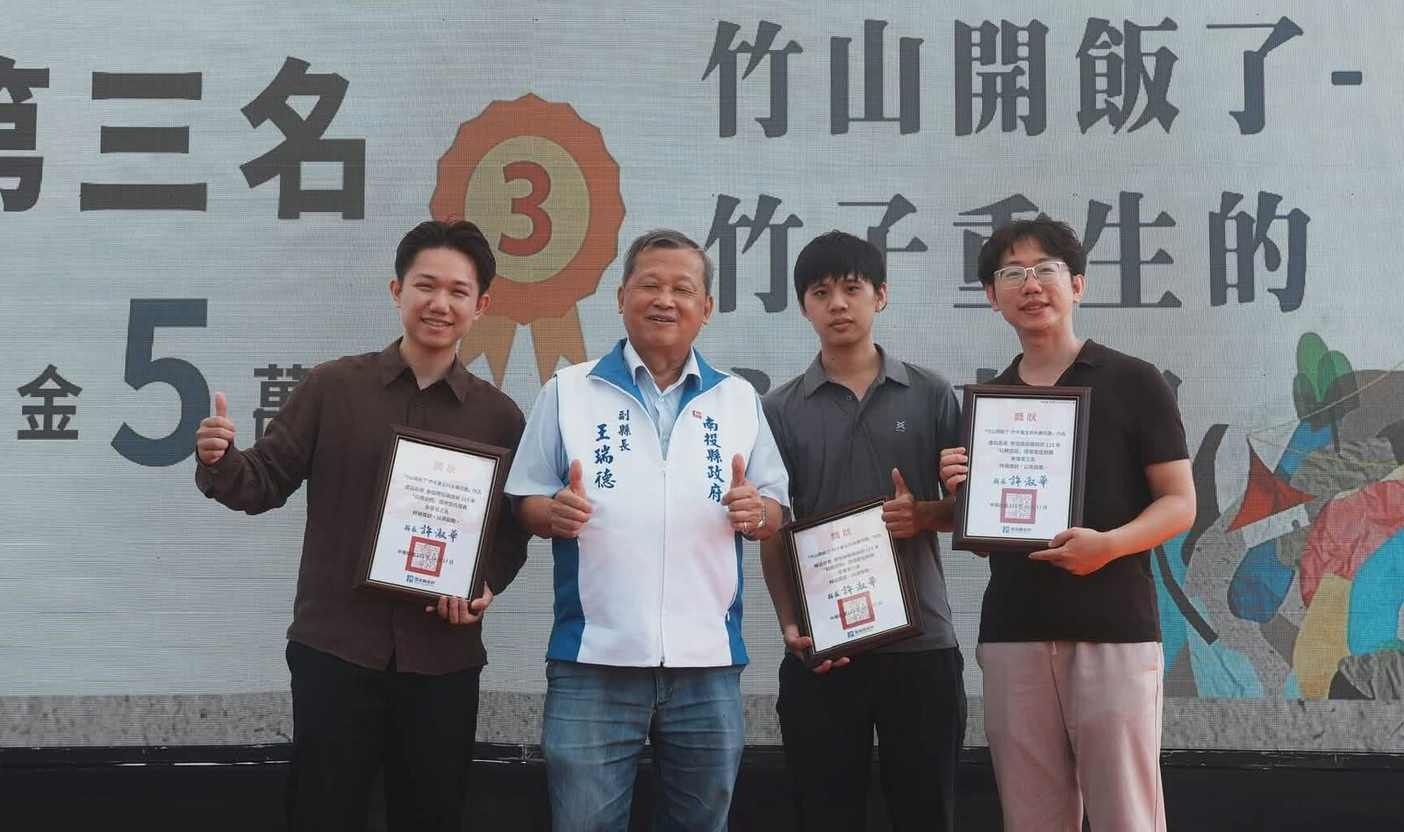
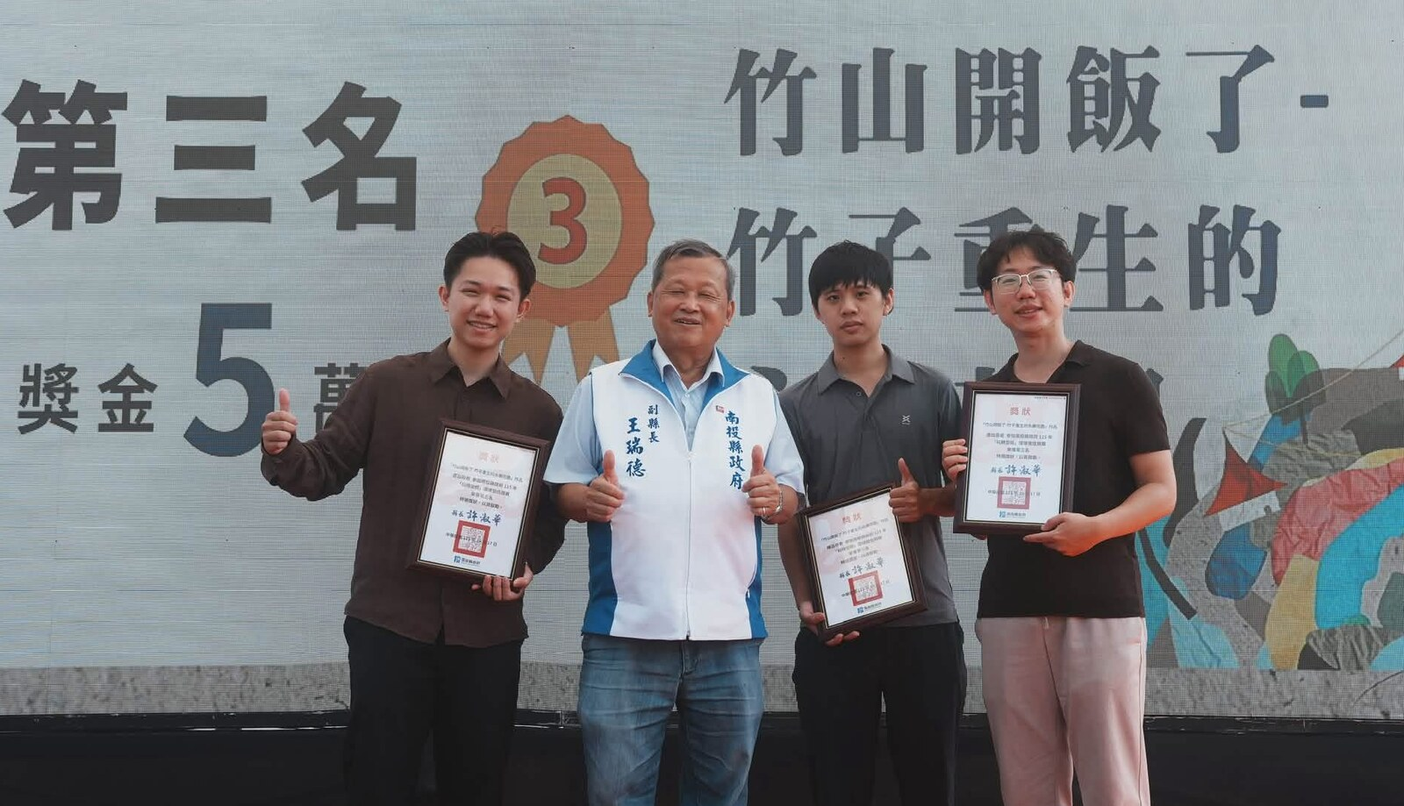
Refine award photo crop and ZH/EN competition copy
Keep 第三名 fully in hero, list, and OG crops; align history and news
wording; unify the English title; rename the official results link text.

diff --git a/en/updates/zhushan-playful-space-2026.html b/en/updates/zhushan-playful-space-2026.html
@@ -3,9 +3,9 @@
 <head>
 <meta charset="utf-8">
 <meta name="viewport" content="width=device-width,initial-scale=1">
-<title>Zhushan Kai Fan Le Wins Third Place in 2026 Playful Space Competition｜HOYAO</title>
-<meta name="description" content="Led by HOYAO’s founder Tang Chia-Ho with company members involved in execution and materials applications, Zhushan Kai Fan Le won third place in the Nantou County Youth Development Office’s 2026 Playful Space Environmental Design Competition.">
-<meta name="keywords" content="Zhushan Kai Fan Le,Tang Chia-Ho,Playful Space,Nantou,HOYAO,materials collaboration">
+<title>HOYAO Team Wins Third Place in Nantou County’s Environmental Design Competition｜HOYAO</title>
+<meta name="description" content="The HOYAO team won third place in Nantou County’s Environmental Design Competition with the bamboo installation Zhushan Kai Fan Le, with the award presented by the Nantou County Government.">
+<meta name="keywords" content="Zhushan Kai Fan Le,Tang Chia-Ho,Nantou,Environmental Design Competition,HOYAO,materials collaboration">
 <meta name="robots" content="index,follow">
 <link rel="canonical" href="https://hoyao.com/en/updates/zhushan-playful-space-2026.html">
 <link rel="alternate" hreflang="zh-Hant" href="https://hoyao.com/zh/updates/zhushan-playful-space-2026.html">
@@ -13,8 +13,8 @@
 <link rel="alternate" hreflang="x-default" href="https://hoyao.com/">
 <meta property="og:type" content="article">
 <meta property="og:site_name" content="和曜｜HOYAO APPLIED TECHNOLOGIES">
-<meta property="og:title" content="Zhushan Kai Fan Le Wins Third Place in 2026 Playful Space Competition｜HOYAO">
-<meta property="og:description" content="Led by HOYAO’s founder Tang Chia-Ho with company members involved in execution and materials applications, Zhushan Kai Fan Le won third place in the Nantou County Youth Development Office’s 2026 Playful Space Environmental Design Competition.">
+<meta property="og:title" content="HOYAO Team Wins Third Place in Nantou County’s Environmental Design Competition｜HOYAO">
+<meta property="og:description" content="The HOYAO team won third place in Nantou County’s Environmental Design Competition with the bamboo installation Zhushan Kai Fan Le, with the award presented by the Nantou County Government.">
 <meta property="og:url" content="https://hoyao.com/en/updates/zhushan-playful-space-2026.html">
 <meta property="og:image" content="https://hoyao.com/assets/images/updates/zhushan-playful-space-2026/zhushan-award-og.jpg">
 <meta property="og:image:secure_url" content="https://hoyao.com/assets/images/updates/zhushan-playful-space-2026/zhushan-award-og.jpg">
@@ -25,8 +25,8 @@
 <meta property="og:locale" content="en_US">
 <meta property="og:locale:alternate" content="zh_TW">
 <meta name="twitter:card" content="summary_large_image">
-<meta name="twitter:title" content="Zhushan Kai Fan Le Wins Third Place in 2026 Playful Space Competition｜HOYAO">
-<meta name="twitter:description" content="Led by HOYAO’s founder Tang Chia-Ho with company members involved in execution and materials applications, Zhushan Kai Fan Le won third place in the Nantou County Youth Development Office’s 2026 Playful Space Environmental Design Competition.">
+<meta name="twitter:title" content="HOYAO Team Wins Third Place in Nantou County’s Environmental Design Competition｜HOYAO">
+<meta name="twitter:description" content="The HOYAO team won third place in Nantou County’s Environmental Design Competition with the bamboo installation Zhushan Kai Fan Le, with the award presented by the Nantou County Government.">
 <meta name="twitter:image" content="https://hoyao.com/assets/images/updates/zhushan-playful-space-2026/zhushan-award-og.jpg">
 <meta property="article:published_time" content="2026-10-13">
 <meta property="article:modified_time" content="2026-11-23">
@@ -35,7 +35,7 @@
 <link rel="icon" href="/assets/logo/favicon-32x32-v2.png" sizes="32x32" type="image/png">
 <link rel="icon" href="/assets/logo/favicon-16x16-v2.png" sizes="16x16" type="image/png">
 <link rel="apple-touch-icon" href="/assets/logo/apple-touch-icon-v2.png" sizes="180x180">
-<link rel="stylesheet" href="/style.css?v=20261013-2">
+<link rel="stylesheet" href="/style.css?v=20261123-1">
 <script type="application/ld+json">
 {
   "@context": "https://schema.org",
@@ -58,15 +58,15 @@
         {
           "@type": "ListItem",
           "position": 3,
-          "name": "Zhushan Kai Fan Le Wins Third Place in Nantou’s 2026 Playful Space Competition｜HOYAO Team Project",
+          "name": "HOYAO Team Wins Third Place in Nantou County’s Environmental Design Competition",
           "item": "https://hoyao.com/en/updates/zhushan-playful-space-2026.html"
         }
       ]
     },
     {
       "@type": "NewsArticle",
-      "headline": "Zhushan Kai Fan Le Wins Third Place in Nantou’s 2026 Playful Space Competition｜HOYAO Team Project",
-      "description": "Led by HOYAO’s founder Tang Chia-Ho with company members involved in execution and materials applications, Zhushan Kai Fan Le won third place in the Nantou County Youth Development Office’s 2026 Playful Space Environmental Design Competition.",
+      "headline": "HOYAO Team Wins Third Place in Nantou County’s Environmental Design Competition",
+      "description": "The HOYAO team won third place in Nantou County’s Environmental Design Competition with the bamboo installation Zhushan Kai Fan Le, with the award presented by the Nantou County Government.",
       "datePublished": "2026-10-13",
       "dateModified": "2026-11-23",
       "inLanguage": "en",
@@ -97,7 +97,7 @@
       "about": [
         {
           "@type": "Event",
-          "name": "Playful Space competition final results",
+          "name": "Nantou County Environmental Design Competition",
           "startDate": "2026-10-02",
           "organizer": {
             "@type": "Organization",
@@ -121,20 +121,20 @@
 <nav class="breadcrumb" aria-label="Breadcrumb"><a href="../index.html">Home</a><span class="breadcrumb-sep" aria-hidden="true"> / </span><a href="../updates.html">Updates</a><span class="breadcrumb-sep" aria-hidden="true"> / </span><span aria-current="page">Zhushan third place</span></nav>
 <section class="page-hero">
 <p class="eyebrow">Update · Zhushan · <time datetime="2026-10-02">2026.10.02</time></p>
-<h1>Zhushan Kai Fan Le Wins Third Place in Nantou’s 2026 Playful Space Competition｜HOYAO Team Project</h1>
-<p class="lead">On 2 October 2026, the Nantou County Youth Development Office announced the third-place result for Zhushan Kai Fan Le, proposed and led by HOYAO’s founder Tang Chia-Ho with company team members participating in production.</p>
+<h1>HOYAO Team Wins Third Place in Nantou County’s Environmental Design Competition</h1>
+<p class="lead">The HOYAO team won third place in Nantou County’s Environmental Design Competition with the bamboo installation <em>Zhushan Kai Fan Le</em>, with the award presented by the Nantou County Government.</p>
 <div class="update-tags" aria-label="Categories">
 <span>Updates</span><span>Zhushan</span><span>Team achievement</span>
 </div>
 </section>
 
 <figure class="update-figure update-figure--hero">
-<img src="/assets/images/updates/zhushan-playful-space-2026/zhushan-award-ceremony.webp" width="1600" height="949" alt="HOYAO team at the Nantou environmental design competition award ceremony" fetchpriority="high" decoding="async">
+<img src="/assets/images/updates/zhushan-playful-space-2026/zhushan-award-ceremony.webp" width="1600" height="919" alt="HOYAO team at the Nantou environmental design competition award ceremony" fetchpriority="high" decoding="async">
 <figcaption>HOYAO team at the Nantou environmental design competition award ceremony.</figcaption>
 </figure>
 
 <section class="prose">
-<p>The HOYAO team entered the bamboo installation <em>Zhushan Kai Fan Le</em> and received third place in Nantou’s environmental design competition, with the award presented by the Nantou County Government. Final results were announced by the Nantou County Youth Development Office on <time datetime="2026-10-02">2 October 2026</time>.</p>
+<p>The Nantou County Youth Development Office announced the final results on <time datetime="2026-10-02">2 October 2026</time>.</p>
 <p><a href="/zhushan/en/">View Zhushan Kai Fan Le — project page and video</a></p>
 </section>
 

diff --git a/zh/updates/zhushan-playful-space-2026.html b/zh/updates/zhushan-playful-space-2026.html
@@ -4,7 +4,7 @@
 <meta charset="utf-8">
 <meta name="viewport" content="width=device-width,initial-scale=1">
 <title>和曜團隊獲南投縣環境營造競賽第三名｜HOYAO</title>
-<meta name="description" content="和曜團隊以竹材裝置《竹山開飯了》參賽，獲南投縣環境營造競賽第三名，由南投縣政府頒獎。">
+<meta name="description" content="和曜團隊以竹材裝置《竹山開飯了》獲南投縣環境營造競賽第三名，由南投縣政府頒獎。">
 <meta name="keywords" content="竹山開飯了,南投縣環境營造競賽,南投縣青年發展所,和曜,HOYAO,唐加和">
 <meta name="robots" content="index,follow">
 <link rel="canonical" href="https://hoyao.com/zh/updates/zhushan-playful-space-2026.html">
@@ -14,7 +14,7 @@
 <meta property="og:type" content="article">
 <meta property="og:site_name" content="和曜｜HOYAO Applied Technologies">
 <meta property="og:title" content="和曜團隊獲南投縣環境營造競賽第三名｜HOYAO">
-<meta property="og:description" content="和曜團隊以竹材裝置《竹山開飯了》參賽，獲第三名，由南投縣政府頒獎。">
+<meta property="og:description" content="和曜團隊以竹材裝置《竹山開飯了》獲南投縣環境營造競賽第三名，由南投縣政府頒獎。">
 <meta property="og:url" content="https://hoyao.com/zh/updates/zhushan-playful-space-2026.html">
 <meta property="og:image" content="https://hoyao.com/assets/images/updates/zhushan-playful-space-2026/zhushan-award-og.jpg">
 <meta property="og:image:secure_url" content="https://hoyao.com/assets/images/updates/zhushan-playful-space-2026/zhushan-award-og.jpg">
@@ -26,7 +26,7 @@
 <meta property="og:locale:alternate" content="en_US">
 <meta name="twitter:card" content="summary_large_image">
 <meta name="twitter:title" content="和曜團隊獲南投縣環境營造競賽第三名｜HOYAO">
-<meta name="twitter:description" content="和曜團隊以竹材裝置《竹山開飯了》參賽，獲第三名，由南投縣政府頒獎。">
+<meta name="twitter:description" content="和曜團隊以竹材裝置《竹山開飯了》獲南投縣環境營造競賽第三名，由南投縣政府頒獎。">
 <meta name="twitter:image" content="https://hoyao.com/assets/images/updates/zhushan-playful-space-2026/zhushan-award-og.jpg">
 <meta property="article:published_time" content="2026-10-13">
 <meta property="article:modified_time" content="2026-11-23">
@@ -35,7 +35,7 @@
 <link rel="icon" href="/assets/logo/favicon-32x32-v2.png" sizes="32x32" type="image/png">
 <link rel="icon" href="/assets/logo/favicon-16x16-v2.png" sizes="16x16" type="image/png">
 <link rel="apple-touch-icon" href="/assets/logo/apple-touch-icon-v2.png" sizes="180x180">
-<link rel="stylesheet" href="/style.css?v=20261013-2">
+<link rel="stylesheet" href="/style.css?v=20261123-1">
 <script type="application/ld+json">
 {
   "@context": "https://schema.org",
@@ -66,7 +66,7 @@
     {
       "@type": "NewsArticle",
       "headline": "和曜團隊獲南投縣環境營造競賽第三名",
-      "description": "和曜團隊以竹材裝置《竹山開飯了》參賽，獲第三名，由南投縣政府頒獎。",
+      "description": "和曜團隊以竹材裝置《竹山開飯了》獲南投縣環境營造競賽第三名，由南投縣政府頒獎。",
       "datePublished": "2026-10-13",
       "dateModified": "2026-11-23",
       "inLanguage": "zh-Hant",
@@ -122,25 +122,25 @@
 <section class="page-hero">
 <p class="eyebrow">Update · Zhushan · <time datetime="2026-10-02">2026.10.02</time></p>
 <h1>和曜團隊獲南投縣環境營造競賽第三名</h1>
-<p class="lead">和曜團隊以竹材裝置《竹山開飯了》參賽，獲第三名，由南投縣政府頒獎。</p>
+<p class="lead">和曜團隊以竹材裝置《竹山開飯了》獲南投縣環境營造競賽第三名，由南投縣政府頒獎。</p>
 <div class="update-tags" aria-label="分類">
 <span>最新動態</span><span>竹山</span><span>團隊成果</span>
 </div>
 </section>
 
 <figure class="update-figure update-figure--hero">
-<img src="/assets/images/updates/zhushan-playful-space-2026/zhushan-award-ceremony.webp" width="1600" height="949" alt="和曜團隊於南投縣環境營造競賽頒獎典禮合影" fetchpriority="high" decoding="async">
+<img src="/assets/images/updates/zhushan-playful-space-2026/zhushan-award-ceremony.webp" width="1600" height="919" alt="和曜團隊於南投縣環境營造競賽頒獎典禮合影" fetchpriority="high" decoding="async">
 <figcaption>和曜團隊於南投縣環境營造競賽頒獎典禮合影。</figcaption>
 </figure>
 
 <section class="prose">
-<p>和曜團隊以竹材裝置《竹山開飯了》參賽，獲第三名，由南投縣政府頒獎。南投縣青年發展所於 <time datetime="2026-10-02">2026 年 10 月 2 日</time>公布決賽結果。</p>
+<p>南投縣青年發展所於 <time datetime="2026-10-02">2026 年 10 月 2 日</time>公布決賽結果。</p>
 <p><a href="/zhushan/">觀看《竹山開飯了》作品與影片</a></p>
 </section>
 
 <aside class="update-context">
 <h3>官方消息來源</h3>
-<p><a href="https://youth.nantou.gov.tw/zh-TW/volunteer/c18b830a-5a3f-42fe-9cc2-f0ae41b16506/abd56e16-9152-4ec5-8716-603672f64159" target="_blank" rel="noopener noreferrer">南投縣青年發展所｜玩轉空間環境營造競賽決賽結果</a>（2026/10/02）</p>
+<p><a href="https://youth.nantou.gov.tw/zh-TW/volunteer/c18b830a-5a3f-42fe-9cc2-f0ae41b16506/abd56e16-9152-4ec5-8716-603672f64159" target="_blank" rel="noopener noreferrer">南投縣青年發展所｜競賽結果公告</a>（2026/10/02）</p>
 <p><a href="https://youth.nantou.gov.tw/zh-TW/volunteer/75295b65-76ee-4214-9d0b-e906922c6019/8c3bf6bd-2993-4d03-8507-5dcc8d2f980f" target="_blank" rel="noopener noreferrer">南投縣青年發展所｜入圍作品名單</a>（2026/07/22）</p>
 <p><a href="/zhushan/">《竹山開飯了》獨立作品專頁</a></p>
 </aside>

diff --git a/en/updates.html b/en/updates.html
@@ -28,7 +28,7 @@
 <link rel="icon" href="/assets/logo/favicon-32x32-v2.png" sizes="32x32" type="image/png">
 <link rel="icon" href="/assets/logo/favicon-16x16-v2.png" sizes="16x16" type="image/png">
 <link rel="apple-touch-icon" href="/assets/logo/apple-touch-icon-v2.png" sizes="180x180">
-<link rel="stylesheet" href="/style.css?v=20261113-2">
+<link rel="stylesheet" href="/style.css?v=20261123-1">
 </head>
 <body>
 <div class="site"><header class="header"><a class="brand" href="/en/"><img class="brand-wordmark" src="../assets/logo/hoyao-wordmark.svg" width="132" height="53" alt="和曜｜HOYAO Applied Technologies"><span class="brand-legal">Applied Technologies Co., Ltd.</span></a><nav class="nav-desktop" aria-label="Primary"><a href="index.html">Home</a><a href="about.html">About</a><a href="work.html">What We Do</a><a href="services.html">Products &amp; Services</a><a href="projects.html">Projects &amp; Applications</a><a href="history.html">Company History</a><a href="updates.html" class="is-active" aria-current="page">Updates</a><a href="contact.html">Contact</a><a class="lang" href="/zh/updates.html">中文</a></nav><button class="menu-toggle" type="button" aria-controls="mobile-nav" aria-expanded="false">Menu</button></header><nav class="nav-mobile" id="mobile-nav" hidden><a href="index.html">Home</a><a href="about.html">About</a><a href="work.html">What We Do</a><a href="services.html">Products &amp; Services</a><a href="projects.html">Projects &amp; Applications</a><a href="history.html">Company History</a><a href="updates.html" class="is-active" aria-current="page">Updates</a><a href="contact.html">Contact</a><a class="lang" href="/zh/updates.html">中文</a></nav>
@@ -41,7 +41,7 @@
 <a class="update-row" href="updates/guiguli-preliminary-2026.html"><span class="date"><time datetime="2026-11-11">2026.11.11</time></span><span><h3>HOYAO Advances to National Top 40 in Taiwan’s 2026 Return-to-Hometown Competition</h3><p>Participated in the Year 115 (2026) competition organized by the Administration for Digital Industries, Ministry of Digital Affairs; passed preliminary review among 232 nationwide entrants and advanced to 40 teams.</p></span></a>
 <a class="update-row" href="updates/fire-materials-ndc-subsidy-2026.html"><span class="date"><time datetime="2026-11-10">2026.11.10</time></span><span><h3>HOYAO Fire-Safety Materials Application Project Receives NDC Subsidy Approval</h3><p>NDC published the 2026 incubator resident-team subsidy list; HOYAO received approved subsidy for fire-safety materials application development, with this stage of material prototyping and preliminary testing completed.</p></span></a>
 <a class="update-row" href="updates/guiguli-written-review-2026.html"><span class="date"><time datetime="2026-10-28">2026.10.28</time></span><span><h3>HOYAO Passes Written Review for the 2026 Return-to-Hometown Innovation &amp; Entrepreneurship Competition</h3><p>Nantou County venue; listed among 60 nationwide teams that passed written review.</p></span></a>
-<a class="update-row update-row--media" href="updates/zhushan-playful-space-2026.html"><span class="date"><time datetime="2026-10-02">2026.10.02</time></span><figure class="update-thumb"><img src="/assets/images/updates/zhushan-playful-space-2026/zhushan-award-card.webp" width="1200" height="800" alt="HOYAO team at the Nantou environmental design competition award ceremony" loading="lazy" decoding="async"></figure><span><h3>Zhushan Kai Fan Le Wins Third Place in Nantou’s 2026 Playful Space Competition</h3><p>Led by HOYAO’s founder and involving company team members, the winning installation received third place.</p></span></a>
+<a class="update-row update-row--media" href="updates/zhushan-playful-space-2026.html"><span class="date"><time datetime="2026-10-02">2026.10.02</time></span><figure class="update-thumb"><img src="/assets/images/updates/zhushan-playful-space-2026/zhushan-award-card.webp" width="1200" height="800" alt="HOYAO team at the Nantou environmental design competition award ceremony" loading="lazy" decoding="async"></figure><span><h3>HOYAO Team Wins Third Place in Nantou County’s Environmental Design Competition</h3><p>Led by HOYAO’s founder and involving company team members, the winning installation received third place.</p></span></a>
 <a class="update-row" href="updates/nantou-sbir-2026.html"><span class="date"><time datetime="2026-09-03">2026.09.03</time></span><span><h3>HOYAO Receives Nantou County Year 115 (2026) Local SBIR Approval</h3><p>Notice 2026/09/03; 26 applications, 16 firms approved.</p></span></a>
 <a class="update-row" href="updates/company-name-change.html"><span class="date"><time datetime="2026-08-12">2026.08.12</time></span><span><h3>HOYAO Completes Company Name Change</h3><p>From 和曜建材科技股份有限公司 to 和曜應用科技股份有限公司.</p></span></a>
 <a class="update-row update-row--media" href="updates/ntu-wood-utilization.html"><span class="date"><time datetime="2026-07-29">2026.07.29</time></span><figure class="update-thumb"><img src="/assets/images/updates/ntu-wood-utilization/ntu-wood-utilization-facility.jpg" width="1400" height="1050" alt="NTU Experimental Forest Wood Utilization Center exterior" loading="lazy" decoding="async"></figure><span><h3>HOYAO Visits NTU Experimental Forest Wood Utilization Factory</h3><p>On-site exchange on wood and bamboo material applications.</p></span></a>

diff --git a/zh/updates.html b/zh/updates.html
@@ -28,7 +28,7 @@
 <link rel="icon" href="/assets/logo/favicon-32x32-v2.png" sizes="32x32" type="image/png">
 <link rel="icon" href="/assets/logo/favicon-16x16-v2.png" sizes="16x16" type="image/png">
 <link rel="apple-touch-icon" href="/assets/logo/apple-touch-icon-v2.png" sizes="180x180">
-<link rel="stylesheet" href="/style.css?v=20261113-2">
+<link rel="stylesheet" href="/style.css?v=20261123-1">
 </head>
 <body>
 <div class="site"><header class="header"><a class="brand" href="/"><img class="brand-wordmark" src="../assets/logo/hoyao-wordmark.svg" width="132" height="53" alt="和曜｜HOYAO Applied Technologies"><span class="brand-legal">和曜應用科技股份有限公司</span></a><nav class="nav-desktop" aria-label="Primary"><a href="/">首頁</a><a href="about.html">關於和曜</a><a href="work.html">我們的工作</a><a href="services.html">產品與服務</a><a href="projects.html">專案與案例</a><a href="history.html">發展歷程</a><a href="updates.html" class="is-active" aria-current="page">最新動態</a><a href="contact.html">聯絡</a><a class="lang" href="/en/updates.html">EN</a></nav><button class="menu-toggle" type="button" aria-controls="mobile-nav" aria-expanded="false">Menu</button></header><nav class="nav-mobile" id="mobile-nav" hidden><a href="/">首頁</a><a href="about.html">關於和曜</a><a href="work.html">我們的工作</a><a href="services.html">產品與服務</a><a href="projects.html">專案與案例</a><a href="history.html">發展歷程</a><a href="updates.html" class="is-active" aria-current="page">最新動態</a><a href="contact.html">聯絡</a><a class="lang" href="/en/updates.html">English</a></nav>
@@ -41,7 +41,7 @@
 <a class="update-row" href="updates/guiguli-preliminary-2026.html"><span class="date"><time datetime="2026-11-11">2026.11.11</time></span><span><h3>和曜晉級數發部「創業歸故里」競賽全國 40 組</h3><p>數位發展部數位產業署公布初賽結果，和曜為全國 232 組報名團隊中通過初賽的 40 組之一。</p></span></a>
 <a class="update-row" href="updates/fire-materials-ndc-subsidy-2026.html"><span class="date"><time datetime="2026-11-10">2026.11.10</time></span><span><h3>和曜防火材料應用計畫獲國發會核定補助</h3><p>國發會公布 115 年度育成村進駐團隊補助清單；和曜以防火材料應用開發獲核定補助。</p></span></a>
 <a class="update-row" href="updates/guiguli-written-review-2026.html"><span class="date"><time datetime="2026-10-28">2026.10.28</time></span><span><h3>和曜通過數發部「創業歸故里」競賽書面審查</h3><p>數位發展部數位產業署公布書面審查結果，和曜入選全國 60 組通過書面審查的團隊。</p></span></a>
-<a class="update-row update-row--media" href="updates/zhushan-playful-space-2026.html"><span class="date"><time datetime="2026-10-02">2026.10.02</time></span><figure class="update-thumb"><img src="/assets/images/updates/zhushan-playful-space-2026/zhushan-award-card.webp" width="1200" height="800" alt="和曜團隊於南投縣環境營造競賽頒獎典禮合影" loading="lazy" decoding="async"></figure><span><h3>和曜團隊獲南投縣環境營造競賽第三名</h3><p>和曜團隊以竹材裝置《竹山開飯了》參賽，獲第三名，由南投縣政府頒獎。</p></span></a>
+<a class="update-row update-row--media" href="updates/zhushan-playful-space-2026.html"><span class="date"><time datetime="2026-10-02">2026.10.02</time></span><figure class="update-thumb"><img src="/assets/images/updates/zhushan-playful-space-2026/zhushan-award-card.webp" width="1200" height="800" alt="和曜團隊於南投縣環境營造競賽頒獎典禮合影" loading="lazy" decoding="async"></figure><span><h3>和曜團隊獲南投縣環境營造競賽第三名</h3><p>和曜團隊以竹材裝置《竹山開飯了》獲南投縣環境營造競賽第三名，由南投縣政府頒獎。</p></span></a>
 <a class="update-row" href="updates/nantou-sbir-2026.html"><span class="date"><time datetime="2026-09-03">2026.09.03</time></span><span><h3>和曜獲南投縣政府地方型 SBIR 計畫核定</h3><p>南投縣政府公布 115 年度「地方產業創新研發推動計畫」核定名單，共有 26 件申請，和曜為獲核定的 16 家廠商之一。</p></span></a>
 <a class="update-row" href="updates/company-name-change.html"><span class="date"><time datetime="2026-08-12">2026.08.12</time></span><span><h3>和曜建材科技股份有限公司更名為和曜應用科技股份有限公司</h3><p>公司完成名稱變更，業務定位從建材延伸至材料開發與產品應用。</p></span></a>
 <a class="update-row update-row--media" href="updates/ntu-wood-utilization.html"><span class="date"><time datetime="2026-07-29">2026.07.29</time></span><figure class="update-thumb"><img src="/assets/images/updates/ntu-wood-utilization/ntu-wood-utilization-facility.jpg" width="1400" height="1050" alt="臺大實驗林木材利用實習工廠外觀" loading="lazy" decoding="async"></figure><span><h3>和曜參訪臺大實驗林木材利用實習工廠</h3><p>雙方交流木竹材料的利用方式與森林資源的應用。</p></span></a>

diff --git a/en/projects.html b/en/projects.html
@@ -34,7 +34,7 @@
 <div class="site"><header class="header"><a class="brand" href="/en/"><img class="brand-wordmark" src="../assets/logo/hoyao-wordmark.svg" width="132" height="53" alt="和曜｜HOYAO Applied Technologies"><span class="brand-legal">HOYAO APPLIED TECHNOLOGIES</span></a><nav class="nav-desktop" aria-label="Primary"><a href="index.html">Home</a><a href="about.html">About</a><a href="work.html">What We Do</a><a href="services.html">Products &amp; Services</a><a href="projects.html" class="is-active" aria-current="page">Projects &amp; Applications</a><a href="history.html">Company History</a><a href="updates.html">Updates</a><a href="contact.html">Contact</a><a class="lang" href="/zh/projects.html">中文</a></nav><button class="menu-toggle" type="button" aria-controls="mobile-nav" aria-expanded="false">Menu</button></header><nav class="nav-mobile" id="mobile-nav" hidden><a href="index.html">Home</a><a href="about.html">About</a><a href="work.html">What We Do</a><a href="services.html">Products &amp; Services</a><a href="projects.html" class="is-active" aria-current="page">Projects &amp; Applications</a><a href="history.html">Company History</a><a href="updates.html">Updates</a><a href="contact.html">Contact</a><a class="lang" href="/zh/projects.html">中文</a></nav>
 <main>
 <section class="page-hero"><p class="eyebrow">Projects &amp; Applications</p><h1>Projects &amp; Applications</h1><p class="lead">Material R&amp;D initiatives and applied collaboration. For the company’s chronology, visit <a href="history.html"><u>Company History</u></a>.</p></section>
-<a class="progress-item progress-item--media" href="/zhushan/en/"><figure class="progress-thumb"><img src="/assets/images/projects/zhushan/hero-installation.webp" width="1800" height="1200" alt="Zhushan bamboo installation" loading="lazy" decoding="async"></figure><div class="progress-body"><div class="progress-meta">Award-winning Application · 2026</div><h3>Zhushan Kai Fan Le — Third Place in Nantou’s 2026 Playful Space Competition</h3><p>The project was proposed and led by HOYAO’s founder Tang Chia-Ho, with company members contributing to the bamboo installation and materials application. The work received third place in the Nantou County Youth Development Office’s 2026 environmental design competition.</p></div></a>
+<a class="progress-item progress-item--media" href="/zhushan/en/"><figure class="progress-thumb"><img src="/assets/images/projects/zhushan/hero-installation.webp" width="1800" height="1200" alt="Zhushan bamboo installation" loading="lazy" decoding="async"></figure><div class="progress-body"><div class="progress-meta">Award-winning Application · 2026</div><h3>Zhushan Kai Fan Le — Third Place in Nantou County’s 2026 Environmental Design Competition</h3><p>The project was proposed and led by HOYAO’s founder Tang Chia-Ho, with company members contributing to the bamboo installation and materials application. The work received third place in the Nantou County Youth Development Office’s 2026 environmental design competition.</p></div></a>
 <a class="progress-item" href="projects/nantou-sbir-2026.html"><div class="progress-meta">R&amp;D Project · 2026</div><h3>Nantou County Local SBIR — Materials R&amp;D</h3><p>HOYAO’s Year 115 (2026) Local Industry Innovation R&amp;D Promotion Program proposal was approved by Nantou County Government, supporting materials application and validation.</p></a>
 </main>
 <footer class="footer"><div class="footer-grid"><div><div class="name"><img class="footer-wordmark" src="../assets/logo/hoyao-wordmark.svg" width="120" height="48" alt="和曜｜HOYAO Applied Technologies"></div><p>HOYAO Applied Technologies Co., Ltd.<br>和曜應用科技股份有限公司<br>hoyao.com</p></div><div><h4>Explore</h4><a href="index.html">Home</a><a href="about.html">About</a><a href="work.html">What We Do</a><a href="services.html">Products &amp; Services</a><a href="projects.html">Projects &amp; Applications</a><a href="history.html">Company History</a><a href="updates.html">Updates</a><a href="contact.html">Contact</a></div><div><h4>Connect</h4><a href="https://linkedin.com/company/hoyao/" rel="noopener">LinkedIn</a><a href="https://www.facebook.com/hoyaotech/" rel="noopener">Facebook</a><a href="mailto:contact@hoyao.com">contact@hoyao.com</a><a href="/">中文</a></div></div><div class="footer-bottom"><div>© 2026 HOYAO Applied Technologies Co., Ltd.</div></div></footer></div>

diff --git a/en/index.html b/en/index.html
@@ -32,7 +32,7 @@
 <link rel="icon" href="/assets/logo/favicon-32x32-v2.png" sizes="32x32" type="image/png">
 <link rel="icon" href="/assets/logo/favicon-16x16-v2.png" sizes="16x16" type="image/png">
 <link rel="apple-touch-icon" href="/assets/logo/apple-touch-icon-v2.png" sizes="180x180">
-<link rel="stylesheet" href="/style.css?v=20261113-2">
+<link rel="stylesheet" href="/style.css?v=20261123-1">
 <script type="application/ld+json">
 {
   "@context": "https://schema.org",
@@ -217,7 +217,7 @@
 <div class="history-preview">
 <a class="history-preview-item" href="updates/company-founded-2026.html"><time datetime="2026-04-29">2026.04</time><h3>HOYAO Building Materials Technologies Incorporated</h3><p>Originally established under the name 和曜建材科技股份有限公司.</p></a>
 <a class="history-preview-item" href="projects/nantou-sbir-2026.html"><time datetime="2026-09-03">2026.09</time><h3>HOYAO Receives Nantou County Year 115 (2026) Local SBIR Approval</h3><p>Approved under the 2026 Local Industry Innovation R&amp;D Promotion Program.</p></a>
-<a class="history-preview-item" href="updates/zhushan-playful-space-2026.html"><time datetime="2026-10-02">2026.10</time><h3>Zhushan Kai Fan Le Wins Third Place in Nantou’s 2026 Playful Space Competition</h3><p>A HOYAO team project recognized in Nantou’s 2026 Playful Space Competition.</p></a>
+<a class="history-preview-item" href="updates/zhushan-playful-space-2026.html"><time datetime="2026-10-02">2026.10</time><h3>HOYAO Team Wins Third Place in Nantou County’s Environmental Design Competition</h3><p>Awarded for the bamboo installation Zhushan Kai Fan Le; presented by the Nantou County Government.</p></a>
 </div>
 <p class="section-more"><a href="history.html">View full company history →</a></p>
 </section>
@@ -230,7 +230,7 @@
 <div class="update-list">
 <a class="update-row" href="updates/guiguli-preliminary-2026.html"><span class="date"><time datetime="2026-11-11">2026.11.11</time></span><span><h3>HOYAO Advances to National Top 40 in Taiwan’s 2026 Return-to-Hometown Competition</h3><p>Passed preliminary review among 232 nationwide entrants; advanced to 40 teams.</p></span></a>
 <a class="update-row" href="updates/guiguli-written-review-2026.html"><span class="date"><time datetime="2026-10-28">2026.10.28</time></span><span><h3>HOYAO Passes Written Review for the 2026 Return-to-Hometown Innovation &amp; Entrepreneurship Competition</h3><p>Selected among 60 teams nationwide in the Year 115 written review stage.</p></span></a>
-<a class="update-row update-row--media" href="updates/zhushan-playful-space-2026.html"><span class="date"><time datetime="2026-10-02">2026.10.02</time></span><figure class="update-thumb"><img src="/assets/images/updates/zhushan-playful-space-2026/zhushan-award-card.webp" width="1200" height="800" alt="HOYAO team at the Nantou environmental design competition award ceremony" loading="lazy" decoding="async"></figure><span><h3>Zhushan Kai Fan Le Wins Third Place in Nantou’s 2026 Playful Space Competition</h3><p>Led by HOYAO’s founder and produced with company team members, the work won third place.</p></span></a>
+<a class="update-row update-row--media" href="updates/zhushan-playful-space-2026.html"><span class="date"><time datetime="2026-10-02">2026.10.02</time></span><figure class="update-thumb"><img src="/assets/images/updates/zhushan-playful-space-2026/zhushan-award-card.webp" width="1200" height="800" alt="HOYAO team at the Nantou environmental design competition award ceremony" loading="lazy" decoding="async"></figure><span><h3>HOYAO Team Wins Third Place in Nantou County’s Environmental Design Competition</h3><p>Led by HOYAO’s founder and produced with company team members, the work won third place.</p></span></a>
 
 </div>
 <p class="section-more"><a href="updates.html">View all updates →</a></p>

diff --git a/index.html b/index.html
@@ -32,7 +32,7 @@
 <link rel="icon" href="/assets/logo/favicon-32x32-v2.png" sizes="32x32" type="image/png">
 <link rel="icon" href="/assets/logo/favicon-16x16-v2.png" sizes="16x16" type="image/png">
 <link rel="apple-touch-icon" href="/assets/logo/apple-touch-icon-v2.png" sizes="180x180">
-<link rel="stylesheet" href="/style.css?v=20261113-2">
+<link rel="stylesheet" href="/style.css?v=20261123-1">
 <script type="application/ld+json">
 {
   "@context": "https://schema.org",
@@ -220,7 +220,7 @@
 <div class="history-preview">
 <a class="history-preview-item" href="/zh/updates/company-founded-2026.html"><time datetime="2026-04-29">2026.04</time><h3>和曜建材科技股份有限公司成立</h3><p>以「和曜建材科技股份有限公司」核准設立。</p></a>
 <a class="history-preview-item" href="/zh/projects/nantou-sbir-2026.html"><time datetime="2026-09-03">2026.09</time><h3>和曜獲南投縣政府地方型 SBIR 計畫核定</h3><p>獲南投縣政府 115 年度地方型 SBIR 研發計畫核定。</p></a>
-<a class="history-preview-item" href="/zh/updates/zhushan-playful-space-2026.html"><time datetime="2026-10-02">2026.10</time><h3>獲南投縣環境營造競賽第三名</h3><p>和曜團隊以竹材裝置《竹山開飯了》參賽，獲第三名，由南投縣政府頒獎。</p></a>
+<a class="history-preview-item" href="/zh/updates/zhushan-playful-space-2026.html"><time datetime="2026-10-02">2026.10</time><h3>獲南投縣環境營造競賽第三名</h3><p>獲獎作品為竹材裝置《竹山開飯了》，獎項由南投縣政府頒發。</p></a>
 </div>
 <p class="section-more"><a href="/zh/history.html">查看完整發展歷程 →</a></p>
 </section>
@@ -233,7 +233,7 @@
 <div class="update-list">
 <a class="update-row" href="/zh/updates/guiguli-preliminary-2026.html"><span class="date"><time datetime="2026-11-11">2026.11.11</time></span><span><h3>和曜晉級數發部「創業歸故里」競賽全國 40 組</h3><p>參與數位產業署競賽，自全國 232 組報名團隊中通過初賽審查，入選 40 組。</p></span></a>
 <a class="update-row" href="/zh/updates/guiguli-written-review-2026.html"><span class="date"><time datetime="2026-10-28">2026.10.28</time></span><span><h3>和曜通過數發部「創業歸故里」競賽書面審查</h3><p>以南投縣為參賽場域，列入全國 60 組書審通過團隊。</p></span></a>
-<a class="update-row update-row--media" href="/zh/updates/zhushan-playful-space-2026.html"><span class="date"><time datetime="2026-10-02">2026.10.02</time></span><figure class="update-thumb"><img src="/assets/images/updates/zhushan-playful-space-2026/zhushan-award-card.webp" width="1200" height="800" alt="和曜團隊於南投縣環境營造競賽頒獎典禮合影" loading="lazy" decoding="async"></figure><span><h3>和曜團隊獲南投縣環境營造競賽第三名</h3><p>和曜團隊以竹材裝置《竹山開飯了》參賽，獲第三名，由南投縣政府頒獎。</p></span></a>
+<a class="update-row update-row--media" href="/zh/updates/zhushan-playful-space-2026.html"><span class="date"><time datetime="2026-10-02">2026.10.02</time></span><figure class="update-thumb"><img src="/assets/images/updates/zhushan-playful-space-2026/zhushan-award-card.webp" width="1200" height="800" alt="和曜團隊於南投縣環境營造競賽頒獎典禮合影" loading="lazy" decoding="async"></figure><span><h3>和曜團隊獲南投縣環境營造競賽第三名</h3><p>和曜團隊以竹材裝置《竹山開飯了》獲南投縣環境營造競賽第三名，由南投縣政府頒獎。</p></span></a>
 
 </div>
 <p class="section-more"><a href="/zh/updates.html">查看全部動態 →</a></p>

diff --git a/zh/index.html b/zh/index.html
@@ -32,7 +32,7 @@
 <link rel="icon" href="/assets/logo/favicon-32x32-v2.png" sizes="32x32" type="image/png">
 <link rel="icon" href="/assets/logo/favicon-16x16-v2.png" sizes="16x16" type="image/png">
 <link rel="apple-touch-icon" href="/assets/logo/apple-touch-icon-v2.png" sizes="180x180">
-<link rel="stylesheet" href="/style.css?v=20261113-2">
+<link rel="stylesheet" href="/style.css?v=20261123-1">
 <script type="application/ld+json">
 {
   "@context": "https://schema.org",
@@ -220,7 +220,7 @@
 <div class="history-preview">
 <a class="history-preview-item" href="updates/company-founded-2026.html"><time datetime="2026-04-29">2026.04</time><h3>和曜建材科技股份有限公司成立</h3><p>以「和曜建材科技股份有限公司」核准設立。</p></a>
 <a class="history-preview-item" href="projects/nantou-sbir-2026.html"><time datetime="2026-09-03">2026.09</time><h3>和曜獲南投縣政府地方型 SBIR 計畫核定</h3><p>獲南投縣政府 115 年度地方型 SBIR 研發計畫核定。</p></a>
-<a class="history-preview-item" href="updates/zhushan-playful-space-2026.html"><time datetime="2026-10-02">2026.10</time><h3>獲南投縣環境營造競賽第三名</h3><p>和曜團隊以竹材裝置《竹山開飯了》參賽，獲第三名，由南投縣政府頒獎。</p></a>
+<a class="history-preview-item" href="updates/zhushan-playful-space-2026.html"><time datetime="2026-10-02">2026.10</time><h3>獲南投縣環境營造競賽第三名</h3><p>獲獎作品為竹材裝置《竹山開飯了》，獎項由南投縣政府頒發。</p></a>
 </div>
 <p class="section-more"><a href="history.html">查看完整發展歷程 →</a></p>
 </section>
@@ -233,7 +233,7 @@
 <div class="update-list">
 <a class="update-row" href="updates/guiguli-preliminary-2026.html"><span class="date"><time datetime="2026-11-11">2026.11.11</time></span><span><h3>和曜晉級數發部「創業歸故里」競賽全國 40 組</h3><p>參與數位產業署競賽，自全國 232 組報名團隊中通過初賽審查，入選 40 組。</p></span></a>
 <a class="update-row" href="updates/guiguli-written-review-2026.html"><span class="date"><time datetime="2026-10-28">2026.10.28</time></span><span><h3>和曜通過數發部「創業歸故里」競賽書面審查</h3><p>以南投縣為參賽場域，列入全國 60 組書審通過團隊。</p></span></a>
-<a class="update-row update-row--media" href="updates/zhushan-playful-space-2026.html"><span class="date"><time datetime="2026-10-02">2026.10.02</time></span><figure class="update-thumb"><img src="/assets/images/updates/zhushan-playful-space-2026/zhushan-award-card.webp" width="1200" height="800" alt="和曜團隊於南投縣環境營造競賽頒獎典禮合影" loading="lazy" decoding="async"></figure><span><h3>和曜團隊獲南投縣環境營造競賽第三名</h3><p>和曜團隊以竹材裝置《竹山開飯了》參賽，獲第三名，由南投縣政府頒獎。</p></span></a>
+<a class="update-row update-row--media" href="updates/zhushan-playful-space-2026.html"><span class="date"><time datetime="2026-10-02">2026.10.02</time></span><figure class="update-thumb"><img src="/assets/images/updates/zhushan-playful-space-2026/zhushan-award-card.webp" width="1200" height="800" alt="和曜團隊於南投縣環境營造競賽頒獎典禮合影" loading="lazy" decoding="async"></figure><span><h3>和曜團隊獲南投縣環境營造競賽第三名</h3><p>和曜團隊以竹材裝置《竹山開飯了》獲南投縣環境營造競賽第三名，由南投縣政府頒獎。</p></span></a>
 
 </div>
 <p class="section-more"><a href="updates.html">查看全部動態 →</a></p>

diff --git a/en/history.html b/en/history.html
@@ -73,7 +73,7 @@
 <li class="history-entry"><time class="history-date" datetime="2026-06-03">06.03</time><div class="history-entry-body"><h3>HOYAO Selected for NDC Zhongxing Incubator Cohort 6 Physical Residency</h3><p>Selected as a physical resident team in the National Development Council’s Cohort 6 regional revitalization incubator in Nantou.</p><a class="history-link" href="projects/nantou-incubator.html">Related details<span aria-hidden="true"> →</span></a></div></li>
 <li class="history-entry"><time class="history-date" datetime="2026-08-12">08.12</time><div class="history-entry-body"><h3>HOYAO Completes Company Name Change</h3><p>The registered name changed to 和曜應用科技股份有限公司, reflecting a broader focus on applied technologies.</p><a class="history-link" href="updates/company-name-change.html">Related details<span aria-hidden="true"> →</span></a></div></li>
 <li class="history-entry"><time class="history-date" datetime="2026-09-03">09.03</time><div class="history-entry-body"><h3>HOYAO Receives Nantou County Year 115 (2026) Local SBIR Approval</h3><p>Included in the Year 115 (2026) Local Industry Innovation R&amp;D Promotion Program approval list released by Nantou County Government.</p><a class="history-link" href="updates/nantou-sbir-2026.html">Related details<span aria-hidden="true"> →</span></a></div></li>
-<li class="history-entry"><time class="history-date" datetime="2026-10-02">10.02</time><div class="history-entry-body"><h3>Zhushan Kai Fan Le Wins Third Place in Nantou’s 2026 Playful Space Competition</h3><p>Proposed and led by HOYAO’s founder Tang Chia-Ho with company members participating in production, the bamboo and circular-material installation won third place in the 2026 Nantou County Youth Development Office competition.</p><a class="history-link" href="updates/zhushan-playful-space-2026.html">Related details<span aria-hidden="true"> →</span></a></div></li>
+<li class="history-entry"><time class="history-date" datetime="2026-10-02">10.02</time><div class="history-entry-body"><h3>HOYAO Team Wins Third Place in Nantou County’s Environmental Design Competition</h3><p>Proposed and led by HOYAO’s founder Tang Chia-Ho with company members participating in production, the bamboo and circular-material installation won third place in the 2026 Nantou County Youth Development Office competition.</p><a class="history-link" href="updates/zhushan-playful-space-2026.html">Related details<span aria-hidden="true"> →</span></a></div></li>
 <li class="history-entry"><time class="history-date" datetime="2026-11-10">11.10</time><div class="history-entry-body"><h3>HOYAO Fire-Safety Materials Application Project Receives NDC Subsidy Approval</h3><p>Advanced fire-safety materials application development, completed this stage of material prototyping and preliminary testing, and received an NDC-approved incubator resident-team subsidy.</p><a class="history-link" href="updates/fire-materials-ndc-subsidy-2026.html">Related details<span aria-hidden="true"> →</span></a></div></li>
 <li class="history-entry"><time class="history-date" datetime="2026-11-11">11.11</time><div class="history-entry-body"><h3>HOYAO Advances to National Top 40 in Taiwan’s 2026 Return-to-Hometown Competition</h3><p>Passed preliminary review among 232 nationwide entrants and advanced to 40 teams in the competition organized by the Administration for Digital Industries.</p><a class="history-link" href="updates/guiguli-preliminary-2026.html">Related details<span aria-hidden="true"> →</span></a></div></li>
 </ol>

diff --git a/zh/history.html b/zh/history.html
@@ -73,7 +73,7 @@
 <li class="history-entry"><time class="history-date" datetime="2026-06-03">06.03</time><div class="history-entry-body"><h3>獲選進駐國發會中興新村地方創生育成村</h3><p>國家發展委員會公告第六期實體進駐團隊名單，和曜獲選為實體進駐團隊。</p><a class="history-link" href="projects/nantou-incubator.html">相關說明<span aria-hidden="true"> →</span></a></div></li>
 <li class="history-entry"><time class="history-date" datetime="2026-08-12">08.12</time><div class="history-entry-body"><h3>更名為和曜應用科技股份有限公司</h3><p>公司登記名稱由「和曜建材科技股份有限公司」變更為「和曜應用科技股份有限公司」。</p><a class="history-link" href="updates/company-name-change.html">相關說明<span aria-hidden="true"> →</span></a></div></li>
 <li class="history-entry"><time class="history-date" datetime="2026-09-03">09.03</time><div class="history-entry-body"><h3>獲南投縣政府地方型 SBIR 計畫核定</h3><p>列入南投縣政府 115 年度「地方產業創新研發推動計畫」核定廠商名單。</p><a class="history-link" href="updates/nantou-sbir-2026.html">相關說明<span aria-hidden="true"> →</span></a></div></li>
-<li class="history-entry"><time class="history-date" datetime="2026-10-02">10.02</time><div class="history-entry-body"><h3>獲南投縣環境營造競賽第三名</h3><p>作品由和曜負責人唐加和領銜提案，公司團隊參與製作。</p><a class="history-link" href="updates/zhushan-playful-space-2026.html">相關說明<span aria-hidden="true"> →</span></a></div></li>
+<li class="history-entry"><time class="history-date" datetime="2026-10-02">10.02</time><div class="history-entry-body"><h3>獲南投縣環境營造競賽第三名</h3><p>獲獎作品為竹材裝置《竹山開飯了》，獎項由南投縣政府頒發。</p><a class="history-link" href="updates/zhushan-playful-space-2026.html">相關說明<span aria-hidden="true"> →</span></a></div></li>
 <li class="history-entry"><time class="history-date" datetime="2026-11-10">11.10</time><div class="history-entry-body"><h3>防火材料應用計畫獲國發會核定補助</h3><p>國家發展委員會公告 115 年度育成村進駐團隊補助名單，和曜列入核定團隊。</p><a class="history-link" href="updates/fire-materials-ndc-subsidy-2026.html">相關說明<span aria-hidden="true"> →</span></a></div></li>
 <li class="history-entry"><time class="history-date" datetime="2026-11-11">11.11</time><div class="history-entry-body"><h3>晉級數發部「創業歸故里」競賽全國 40 組</h3><p>數位發展部數位產業署公布初賽結果，和曜為全國 232 組報名團隊中晉級的 40 組之一。</p><a class="history-link" href="updates/guiguli-preliminary-2026.html">相關說明<span aria-hidden="true"> →</span></a></div></li>
 </ol>

diff --git a/style.css b/style.css
@@ -593,6 +593,9 @@ body.page-projects .progress-body p{
   display:block;
   transition:transform .7s ease;
 }
+.update-thumb img[src*="zhushan-award-card"]{
+  object-position:left 28% top 22%;
+}
 .update-row--media:hover .update-thumb img{
   transform:scale(1.03);
 }
